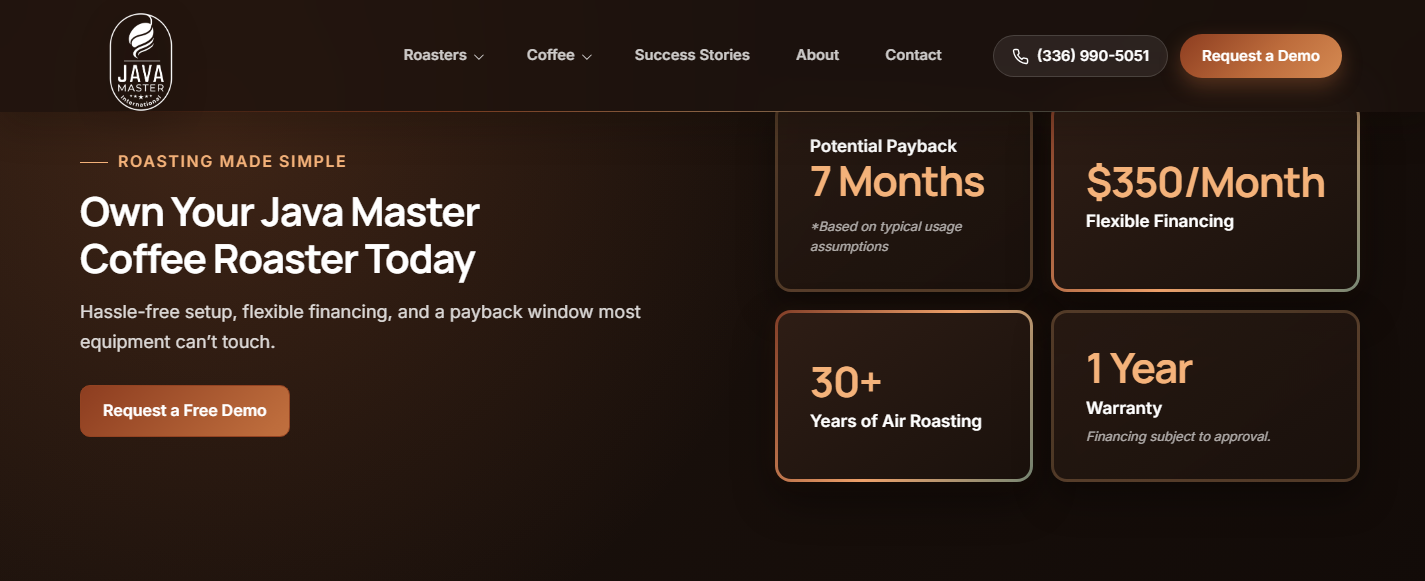
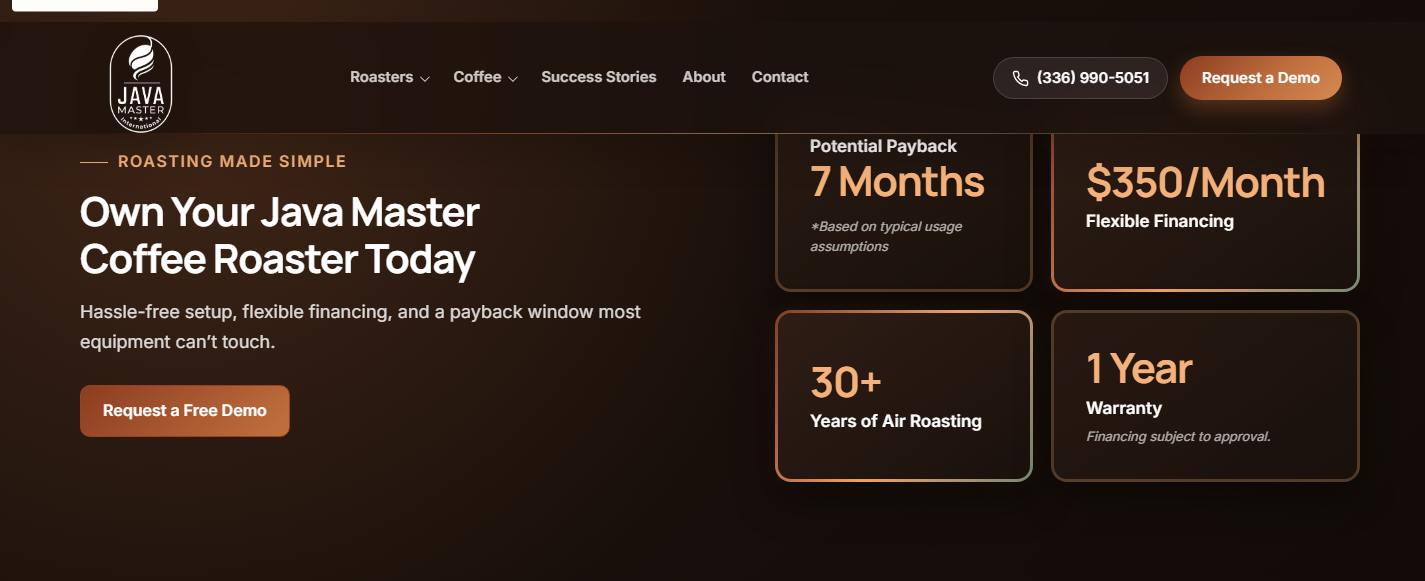
Enhance About page: centered background on difference section, 2-image CTA gallery, modern sustainability redesign, and bio image alignment

diff --git a/assets/css/style.css b/assets/css/style.css
@@ -100,7 +100,7 @@ p { max-width: 66ch; }
 .site-header.is-scrolled .brand__logo { top: -2px; height: 100px; }
 .site-header .brand:hover .brand__logo { transform: translateX(-50%) translateY(-1px) scale(1.02); }
 .brand:hover .brand__logo { transform: translateY(-1px) scale(1.02); filter: drop-shadow(0 10px 18px rgba(8,4,2,.25)); }
-.nav__menu { position: static; transform: none; display: flex; align-items: center; gap: clamp(8px, 1.4vw, 20px); margin: 0 0 0 auto; padding: 0; border: 0; background: transparent; box-shadow: none; list-style: none; }
+.nav__menu { width: 100%; justify-content: center; position: static; transform: none; display: flex; align-items: center; gap: clamp(4px, 1vw, 0); margin: 0 0 0 auto; padding: 0; border: 0; background: transparent; box-shadow: none; list-style: none; }
 .nav__link, .dropdown__toggle { position: relative; display: inline-flex; min-height: 40px; align-items: center; gap: 7px; padding: 8px 13px; border: 0; border-radius: 0; background: transparent; color: rgba(255,255,255,.78); font-size: .925rem; font-weight: 600; line-height: 1.3; text-decoration: none; cursor: pointer; transition: color var(--ease); }
 .nav__link::after { position: absolute; right: 13px; bottom: 3px; left: 13px; height: 2px; border-radius: 999px; background: var(--copper); opacity: 0; transform: scaleX(.45); content: ""; transition: opacity var(--ease), transform var(--ease); }
 .nav__link:hover, .dropdown__toggle:hover, .dropdown__toggle[aria-expanded="true"] { background: transparent; color: #fff; }
@@ -498,7 +498,7 @@ p { max-width: 66ch; }
 .vision-mission::before { position: absolute; width: 420px; aspect-ratio: 1; right: -260px; bottom: -270px; border: 1px solid rgba(147,67,34,.09); border-radius: 50%; box-shadow: 0 0 0 62px rgba(147,67,34,.025), 0 0 0 124px rgba(88,99,84,.02); pointer-events: none; content: ""; }
 .vision-mission::after { position: absolute; inset: 0; opacity: .18; background-image: linear-gradient(rgba(107,77,59,.055) 1px, transparent 1px), linear-gradient(90deg, rgba(107,77,59,.055) 1px, transparent 1px); background-size: 72px 72px; -webkit-mask-image: linear-gradient(90deg, transparent, #000 35%, #000 72%, transparent); mask-image: linear-gradient(90deg, transparent, #000 35%, #000 72%, transparent); pointer-events: none; content: ""; }
 .vision-mission__layout { position: relative; z-index: 1; }
-.vision-mission__intro { display: grid; grid-template-columns: minmax(0, 1.05fr) minmax(280px, .55fr); align-items: end; gap: clamp(20px, 2vw, 0); margin-bottom: clamp(34px, 5vw, 58px); padding-bottom: clamp(26px, 3vw, 36px); border-bottom: 2px solid transparent; border-image: linear-gradient(90deg, #8f3f24 0%, #dd8b51 45%, #71806e 78%, transparent 100%) 1; }
+.vision-mission__intro { display: grid; grid-template-columns: minmax(0, 1.05fr) minmax(280px, .55fr); align-items: end; gap: clamp(20px, 2vw, 0); margin-bottom: clamp(25px, 3vw, 25px); padding-bottom: clamp(26px, 3vw, 36px); }
 .vision-mission__intro .eyebrow { grid-column: 1 / -1; margin-bottom: -4px; color: var(--copper-dark); }
 .vision-mission__intro h2 { max-width: 760px; margin: 0; color: var(--espresso); letter-spacing: -.045em; line-height: 1.02; }
 .vision-mission__intro p { max-width: 460px; margin: 0 0 5px; color: var(--ink-soft); font-size: 1.05rem; line-height: 1.75; }
@@ -683,7 +683,7 @@ p { max-width: 66ch; }
 .about-story::before { position: absolute; width: min(44vw, 660px); aspect-ratio: 1; right: -18%; bottom: -18%; border: 1px solid rgba(147,67,34,.12); border-radius: 50%; box-shadow: 0 0 0 64px rgba(147,67,34,.035), 0 0 0 128px rgba(147,67,34,.02); pointer-events: none; content: ""; }
 .about-story .container { position: relative; z-index: 1; }
 .about-story__breadcrumb { margin-bottom: clamp(32px, 5vw, 62px); }
-.about-story__layout { display: grid; grid-template-columns: minmax(0, 7.1fr) minmax(360px, 4.9fr); align-items: start; gap: clamp(44px, 6vw, 84px); }
+.about-story__layout { display: grid; grid-template-columns: minmax(0, 7.1fr) minmax(360px, 4.9fr); align-items: center; gap: clamp(44px, 6vw, 84px); }
 .about-story__content { min-width: 0; }
 .about-story__content h1 { max-width: 760px; margin-bottom: 26px; color: var(--espresso); line-height: 1.08; }
 .about-story__opening { max-width: 710px; padding-left: 24px; border-left: 3px solid var(--copper); color: var(--ink-soft); }
@@ -692,7 +692,7 @@ p { max-width: 66ch; }
 .about-story__chapter-index { display: inline-flex; align-items: center; justify-content: center; width: 36px; height: 36px; border-radius: 10px; background: #352118; color: #f4b27a; font-family: var(--font-title); font-size: .85rem; font-weight: 800; flex: 0 0 auto; box-shadow: 0 6px 14px rgba(37,24,17,.18); }
 .about-story__chapter h2 { max-width: 650px; margin: 0; color: var(--espresso); line-height: 1.15; font-size: clamp(1.3rem, 1.8vw, 1.65rem); }
 .about-story__chapter .about-copy { color: var(--ink-soft); }
-.about-story__portrait { position: sticky; top: calc(var(--header-height) + 28px); margin: 0; }
+.about-story__portrait { position: relative; top: auto; align-self: center; margin: 0; }
 .about-story__portrait-frame { position: relative; overflow: hidden; aspect-ratio: 2 / 3; padding: 12px; border: 1px solid rgba(100,67,48,.2); border-radius: 26px 26px 8px 26px; background: rgba(255,255,255,.76); box-shadow: 0 30px 74px rgba(45,28,18,.16); }
 .about-story__portrait-frame::after { position: absolute; inset: 22px -16px -16px 22px; z-index: -1; border: 1px solid rgba(189,108,60,.36); border-radius: 22px; content: ""; }
 .about-story__portrait-frame picture, .about-story__portrait-frame img { width: 100%; height: 100%; }
@@ -742,8 +742,8 @@ p { max-width: 66ch; }
 .about-points--air li strong { color: var(--copper-dark); }
 .about-points--air li::before { background: rgba(189, 108, 60, .2); border: 2px solid var(--copper); }
 
-.about-difference { position: relative; color: #fff; background: radial-gradient(circle at 90% 8%, rgba(189,108,60,.19), transparent 26%), linear-gradient(145deg, #241711 0%, #160e0a 100%); }
-.about-difference::before { position: absolute; inset: 0; opacity: .075; background-image: url('../images/coffee-bean-pattern.svg'); background-size: 180px; pointer-events: none; content: ""; }
+.about-difference { position: relative; color: #fff; background: linear-gradient(150deg, rgba(22, 13, 9, 0.88) 0%, rgba(14, 8, 5, 0.94) 100%), url('../images/coffee-beans-overhead.jpg') center center / cover no-repeat; }
+.about-difference::before { position: absolute; inset: 0; opacity: .05; background-image: url('../images/coffee-bean-pattern.svg'); background-size: 180px; pointer-events: none; content: ""; }
 .about-difference .container { position: relative; z-index: 1; }
 .about-difference__intro { max-width: 940px; margin-bottom: clamp(38px, 5vw, 62px); }
 .about-difference__intro .eyebrow { color: #f4b27a; }
@@ -762,21 +762,29 @@ p { max-width: 66ch; }
 .about-benefit-card__keep { white-space: nowrap; }
 .about-benefit-card p { max-width: none; margin: 0; color: rgba(255,255,255,.7); font-size: 1rem; line-height: 1.7; text-wrap: pretty; }
 
-.about-sustainability { position: relative; overflow: hidden; background: #e5e9e1; }
-.about-sustainability::before { position: absolute; width: 520px; aspect-ratio: 1; top: -310px; left: -220px; border-radius: 50%; background: rgba(88,99,84,.08); content: ""; }
-.about-sustainability__layout { position: relative; z-index: 1; display: grid; grid-template-columns: minmax(0, 5.1fr) minmax(420px, 6.9fr); align-items: center; gap: clamp(44px, 7vw, 96px); }
-.about-sustainability__content { padding-block: 24px; }
-.about-sustainability__content .eyebrow { color: var(--sage); }
-.about-sustainability__content h2 { max-width: 590px; color: var(--espresso); }
+.about-sustainability { position: relative; overflow: hidden; background: #fdfbf7; }
+.about-sustainability__card { position: relative; overflow: hidden; padding: clamp(36px, 5vw, 64px); border: 1px solid rgba(88, 99, 84, 0.16); border-radius: 32px; background: linear-gradient(145deg, #ffffff 0%, #f4f7f2 100%); box-shadow: 0 24px 60px rgba(43, 52, 39, 0.08); }
+.about-sustainability__layout { display: grid; grid-template-columns: minmax(0, 6.2fr) minmax(380px, 5.8fr); align-items: center; gap: clamp(36px, 5vw, 72px); }
+.about-sustainability__content { padding-block: 8px; }
+.about-sustainability__tag { display: inline-flex; align-items: center; gap: 8px; padding: 6px 14px; border-radius: 999px; background: rgba(88, 99, 84, 0.12); color: #43523e; font-size: 0.8rem; font-weight: 750; text-transform: uppercase; letter-spacing: 0.08em; margin-bottom: 16px; }
+.about-sustainability__tag svg { color: #43523e; }
+.about-sustainability__content h2 { max-width: 590px; color: var(--espresso); margin-bottom: 18px; }
 .about-sustainability__content .about-copy { color: #53604f; }
-.about-sustainability__badges { display: grid; grid-template-columns: repeat(3, 1fr); gap: 14px; margin-top: 28px; }
-.sustainability-badge { padding: 16px 14px; border-radius: 16px; background: rgba(255,255,255,.8); border: 1px solid rgba(88,99,84,.18); box-shadow: 0 8px 24px rgba(37,50,33,.08); display: flex; flex-direction: column; gap: 4px; }
-.sustainability-badge__value { font-family: var(--font-title); font-size: 1.6rem; font-weight: 800; color: var(--copper-dark); line-height: 1; }
-.sustainability-badge__label { font-size: .78rem; font-weight: 650; color: #53604f; line-height: 1.35; }
-.about-sustainability__media { position: relative; min-height: 560px; margin: 0; overflow: hidden; border-radius: 110px 22px 22px 22px; box-shadow: 0 30px 70px rgba(37,50,33,.18); }
-.about-sustainability__media::after { position: absolute; inset: 16px; border: 1px solid rgba(255,255,255,.55); border-radius: 96px 14px 14px 14px; pointer-events: none; content: ""; }
-.about-sustainability__media img { width: 100%; height: 100%; min-height: 560px; object-fit: cover; object-position: center 48%; transition: transform 700ms cubic-bezier(.2,.75,.2,1); }
+.about-sustainability__highlights { display: grid; gap: 14px; margin-top: 28px; }
+.sustainability-pill { display: flex; align-items: flex-start; gap: 16px; padding: 16px 18px; border-radius: 18px; background: rgba(255, 255, 255, 0.88); border: 1px solid rgba(88, 99, 84, 0.14); box-shadow: 0 4px 16px rgba(43, 52, 39, 0.04); transition: transform 250ms ease, box-shadow 250ms ease, border-color 250ms ease; }
+.sustainability-pill:hover { transform: translateX(4px); border-color: rgba(189, 108, 60, 0.35); box-shadow: 0 8px 24px rgba(43, 52, 39, 0.08); }
+.sustainability-pill__icon { width: 42px; height: 42px; flex: 0 0 42px; display: grid; place-items: center; border-radius: 12px; background: rgba(189, 108, 60, 0.12); color: var(--copper-dark); }
+.sustainability-pill__icon svg { width: 22px; height: 22px; fill: none; stroke: currentColor; stroke-width: 2; stroke-linecap: round; stroke-linejoin: round; }
+.sustainability-pill__text { display: flex; flex-direction: column; gap: 3px; }
+.sustainability-pill__text strong { font-family: var(--font-title); font-size: 1.05rem; color: var(--espresso); font-weight: 700; line-height: 1.25; }
+.sustainability-pill__text span { font-size: 0.9rem; color: var(--ink-soft); line-height: 1.45; }
+.about-sustainability__media { position: relative; min-height: 520px; height: 100%; margin: 0; overflow: hidden; border-radius: 28px; box-shadow: 0 24px 60px rgba(37, 50, 33, 0.16); }
+.about-sustainability__media img { width: 100%; height: 100%; min-height: 520px; object-fit: cover; object-position: center; transition: transform 700ms cubic-bezier(.2,.75,.2,1); }
 .about-sustainability__media:hover img { transform: scale(1.025); }
+.about-sustainability__badge-float { position: absolute; bottom: 20px; left: 20px; right: 20px; display: flex; align-items: center; gap: 14px; padding: 14px 18px; border-radius: 18px; background: rgba(27, 18, 14, 0.88); backdrop-filter: blur(14px); -webkit-backdrop-filter: blur(14px); border: 1px solid rgba(244, 178, 122, 0.25); color: #fff; box-shadow: 0 16px 36px rgba(0, 0, 0, 0.3); }
+.badge-float__icon { font-size: 1.4rem; line-height: 1; }
+.about-sustainability__badge-float strong { display: block; font-family: var(--font-title); font-size: 0.95rem; color: #f4b27a; font-weight: 700; }
+.about-sustainability__badge-float span { font-size: 0.82rem; color: rgba(255, 255, 255, 0.85); line-height: 1.3; }
 
 .about-partners__head { display: block; max-width: 760px; padding-bottom: clamp(24px,3vw,34px); }
 .about-partners__head h2 { margin: 0; }
@@ -786,14 +794,12 @@ p { max-width: 66ch; }
 .about-roasters-cta__panel::before { position: absolute; inset: 0; opacity: .08; background-image: url('../images/coffee-bean-pattern.svg'); background-size: 150px; pointer-events: none; content: ""; }
 .about-roasters-cta__content { position: relative; z-index: 2; padding: clamp(38px, 6vw, 78px); }
 .about-roasters-cta__text { max-width: 780px; margin: 0 0 30px; color: #fff; font-family: var(--font-title); font-size: 28px; font-weight: 700; letter-spacing: -.025em; line-height: 1.3; text-wrap: balance; }
-.about-roasters-cta__gallery { position: relative; z-index: 1; display: grid; grid-template-columns: repeat(2, minmax(0, 1fr)); grid-template-rows: 1.45fr .55fr; gap: 10px; height: 530px; padding: 20px 20px 20px 0; }
-.about-roasters-cta__image { position: relative; min-width: 0; min-height: 0; margin: 0; overflow: hidden; border: 1px solid rgba(255,255,255,.18); border-radius: 12px; background: #21140e; box-shadow: 0 14px 28px rgba(0,0,0,.2); }
-.about-roasters-cta__image--roaster { grid-column: 1 / -1; }
+.about-roasters-cta__gallery { position: relative; z-index: 1; display: grid; grid-template-columns: repeat(2, minmax(0, 1fr)); gap: 16px; height: 480px; padding: 24px 24px 24px 0; }
+.about-roasters-cta__image { position: relative; min-width: 0; height: 100%; margin: 0; overflow: hidden; border: 1px solid rgba(255,255,255,.18); border-radius: 18px; background: #21140e; box-shadow: 0 16px 36px rgba(0,0,0,.25); }
 .about-roasters-cta__image img { width: 100%; height: 100%; object-fit: cover; transition: transform 700ms cubic-bezier(.2,.75,.2,1); }
-.about-roasters-cta__image--harvest img { object-position: 56% center; }
-.about-roasters-cta__image--sack img { object-position: center 52%; }
-.about-roasters-cta__image--roaster img { object-position: center 44%; }
-.about-roasters-cta__image:hover img { transform: scale(1.035); }
+.about-roasters-cta__image--harvest img { object-position: center; }
+.about-roasters-cta__image--sack img { object-position: center; }
+.about-roasters-cta__image:hover img { transform: scale(1.04); }
 
 .about-contact-panel { border-top: 1px solid var(--line); background: linear-gradient(135deg, #f3e9dd 0%, #fffaf3 100%); }
 .about-contact-panel__layout { display: grid; grid-template-columns: minmax(0, 7fr) minmax(300px, 5fr); align-items: center; gap: clamp(34px, 6vw, 80px); }

diff --git a/about.html b/about.html
@@ -158,32 +158,55 @@
   </section>
 
   <section class="section about-sustainability" aria-labelledby="sustainability-title">
-    <div class="container about-sustainability__layout">
-      <div class="about-sustainability__content">
-        <span class="eyebrow">Sustainability</span>
-        <h2 id="sustainability-title">Clean Roast, Happy Planet</h2>
-        <div class="about-copy">
-          <p>Drum roasters are powered by natural gas. They blast the coffee beans with heat as they turn in the drum. As the beans cook, smokey air is produced that must be exhausted as fast as possible. As you might imagine, the use of natural gas and the resulting emissions creates a CO2 footprint that has been shown to be substantially higher than those produced via air roasting. CO2 is the second leading gas contributing to the greenhouse effect.</p>
-          <p>The exhaust from our process is clean because we don't burn beans or chaff. In fact, we capture the chaff for easy disposal. Our studies have shown that it can be returned to the soil as a rich, organic fertilizer.</p>
-        </div>
-        <div class="about-sustainability__badges">
-          <div class="sustainability-badge">
-            <span class="sustainability-badge__value">100%</span>
-            <span class="sustainability-badge__label">Electric Clean Roasting</span>
+    <div class="container">
+      <div class="about-sustainability__card">
+        <div class="about-sustainability__layout">
+          <div class="about-sustainability__content">
+            <div class="about-sustainability__tag">
+              <svg viewBox="0 0 24 24" width="16" height="16" fill="none" stroke="currentColor" stroke-width="2.5" stroke-linecap="round" stroke-linejoin="round" aria-hidden="true"><path d="M12 22c5.523 0 10-4.477 10-10S17.523 2 12 2 2 6.477 2 12s4.477 10 10 10z"/><path d="m9 12 2 2 4-4"/></svg>
+              <span>Ecological Engineering</span>
+            </div>
+            <h2 id="sustainability-title">Clean Roast, Happy Planet</h2>
+            <div class="about-copy">
+              <p>Drum roasters are powered by natural gas, blasting beans with flame and filling the workspace with heavy exhaust and high CO₂ emissions. Java Master’s patented electric air roasting replaces fossil fuel combustion with a gentle slipstream of climate-controlled hot air.</p>
+              <p>Because we never burn beans or chaff, our exhaust is clean, energy consumption is highly efficient, and the captured chaff byproduct is returned directly to the soil as nutrient-dense organic fertilizer.</p>
+            </div>
+            <div class="about-sustainability__highlights">
+              <div class="sustainability-pill">
+                <div class="sustainability-pill__icon" aria-hidden="true"><svg viewBox="0 0 24 24"><polygon points="13 2 3 14 12 14 11 22 21 10 12 10 13 2"/></svg></div>
+                <div class="sustainability-pill__text">
+                  <strong>100% Electric Precision</strong>
+                  <span>Zero fossil fuels, open flames, or gas combustion fumes.</span>
+                </div>
+              </div>
+              <div class="sustainability-pill">
+                <div class="sustainability-pill__icon" aria-hidden="true"><svg viewBox="0 0 24 24"><path d="M12 22s8-4 8-10V5l-8-3-8 3v7c0 6 8 10 8 10z"/></svg></div>
+                <div class="sustainability-pill__text">
+                  <strong>Zero Bitter Chaff Waste</strong>
+                  <span>Chaff is automatically separated &amp; upcycled as organic fertilizer.</span>
+                </div>
+              </div>
+              <div class="sustainability-pill">
+                <div class="sustainability-pill__icon" aria-hidden="true"><svg viewBox="0 0 24 24"><circle cx="12" cy="12" r="10"/><path d="M12 2a14.5 14.5 0 0 0 0 20 14.5 14.5 0 0 0 0-20"/><path d="M2 12h20"/></svg></div>
+                <div class="sustainability-pill__text">
+                  <strong>Substantially Lower CO₂</strong>
+                  <span>Radically reduced carbon footprint vs industrial gas roasters.</span>
+                </div>
+              </div>
+            </div>
           </div>
-          <div class="sustainability-badge">
-            <span class="sustainability-badge__value">0</span>
-            <span class="sustainability-badge__label">Gas Emissions / Open Flames</span>
-          </div>
-          <div class="sustainability-badge">
-            <span class="sustainability-badge__value">100%</span>
-            <span class="sustainability-badge__label">Recyclable Chaff Byproduct</span>
-          </div>
+          <figure class="about-sustainability__media">
+            <img src="assets/images/curated-coffee-cherries-v2.jpg" alt="Freshly harvested coffee cherries held by coffee growers" width="1800" height="2700" loading="lazy" decoding="async">
+            <div class="about-sustainability__badge-float">
+              <span class="badge-float__icon" aria-hidden="true">🌱</span>
+              <div>
+                <strong>Circular Roast Cycle</strong>
+                <span>From organic farm to zero-waste cup</span>
+              </div>
+            </div>
+          </figure>
         </div>
       </div>
-      <figure class="about-sustainability__media">
-        <img src="assets/images/curated-coffee-cherries-v2.jpg" alt="Freshly harvested coffee cherries held by coffee growers" width="1800" height="2700" loading="lazy" decoding="async">
-      </figure>
     </div>
   </section>
 
@@ -197,7 +220,6 @@
         <div class="about-roasters-cta__gallery" role="group" aria-label="Coffee from harvest through roasting">
           <figure class="about-roasters-cta__image about-roasters-cta__image--harvest"><img src="assets/images/about-cta-coffee-harvest-32331186.jpg" alt="A coffee grower harvesting ripe red coffee cherries" width="1855" height="980" loading="lazy" decoding="async"></figure>
           <figure class="about-roasters-cta__image about-roasters-cta__image--sack"><img src="assets/images/about-cta-bean-sack-14553061.jpg" alt="Dark and medium roasted coffee beans spilling from a burlap sack" width="2174" height="980" loading="lazy" decoding="async"></figure>
-          <figure class="about-roasters-cta__image about-roasters-cta__image--roaster"><img src="assets/images/about-cta-roaster-beans-6667771.jpg" alt="Fresh coffee beans cooling in a commercial roasting tray" width="474" height="158" loading="lazy" decoding="async"></figure>
         </div>
       </div>
     </div>

diff --git a/assets/css/responsive.css b/assets/css/responsive.css
@@ -140,12 +140,12 @@
   .about-story__chapter { margin-top: 42px; }
   .about-difference__grid { gap: 18px; }
   .about-benefit-card { padding: 28px; }
-  .about-sustainability__media, .about-sustainability__media img { min-height: 390px; }
+  .about-sustainability__card { padding: 36px 28px; border-radius: 28px; }
+  .about-sustainability__media, .about-sustainability__media img { min-height: 380px; }
   .about-roasters-cta__content { padding: 38px 28px 24px; }
-  .about-roasters-cta__gallery { height: 460px; }
+  .about-roasters-cta__gallery { height: 440px; }
   .purpose-card { min-height: 0; padding-top: 30px; }
   .purpose-card__icon { position: relative; top: auto; left: auto; margin: 0 0 20px; }
-  .about-sustainability__badges { grid-template-columns: 1fr; gap: 10px; }
 }
 
 @media (max-width: 680px) {
@@ -207,13 +207,14 @@
   .about-comparison__media--fire { min-height: 410px; aspect-ratio: auto; border-radius: 54px 14px 14px 14px; }
   .about-comparison__media--air { aspect-ratio: 4 / 3; border-radius: 16px 44px 16px 16px; }
   .about-difference__grid { grid-template-columns: 1fr; }
-  .about-sustainability__media { border-radius: 64px 18px 18px 18px; }
-  .about-sustainability__media::after { border-radius: 52px 12px 12px 12px; }
-  .about-sustainability__media, .about-sustainability__media img { min-height: 330px; }
+  .about-sustainability__card { padding: 28px 20px; border-radius: 24px; }
+  .about-sustainability__media { border-radius: 20px; min-height: 300px; }
+  .about-sustainability__media img { min-height: 300px; }
+  .about-sustainability__badge-float { bottom: 14px; left: 14px; right: 14px; padding: 10px 14px; gap: 10px; }
   .about-roasters-cta__panel { border-radius: 20px; }
   .about-roasters-cta__content { padding: 32px 22px 18px; }
-  .about-roasters-cta__gallery { width: calc(100% - 28px); height: 390px; gap: 8px; margin-bottom: 14px; }
-  .about-roasters-cta__image { border-radius: 9px; }
+  .about-roasters-cta__gallery { width: calc(100% - 28px); height: 320px; gap: 10px; margin-bottom: 20px; }
+  .about-roasters-cta__image { border-radius: 12px; }
 }
 
 @media (max-width: 520px) {
